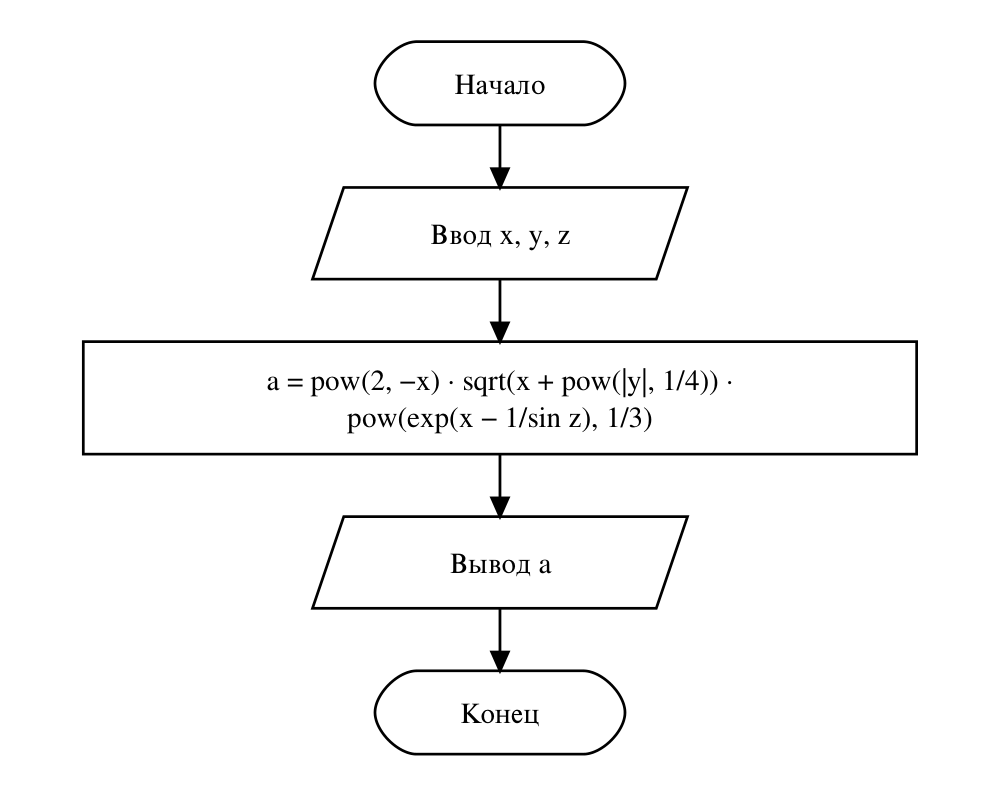
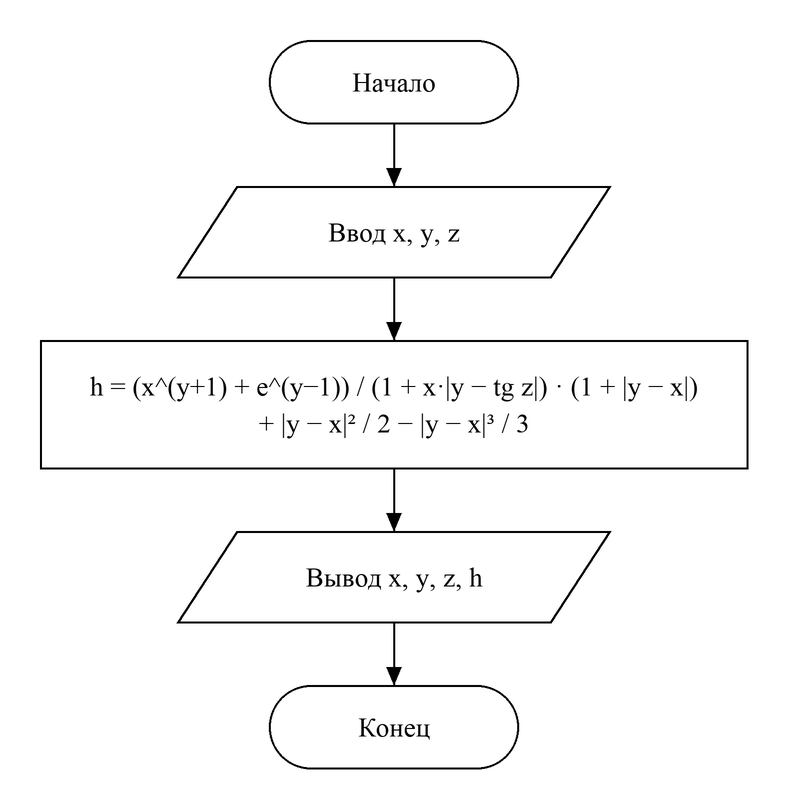
.

diff --git a/main.c b/main.c
@@ -4,16 +4,17 @@
 #include <locale.h>
 #include <math.h>
 
-// Вариант 10
-// a = 2^(-x) * sqrt(x + |y|^(1/4)) * cbrt(e^(x - 1/sin(z)))
-// Контрольный пример: x = 3.981e-2, y = -1.625e3, z = 0.512, a = 1.26185
+// Вариант 15
+// h = (x^(y+1) + e^(y-1)) / (1 + x*|y - tg z|) * (1 + |y - x|) + |y - x|^2 / 2 - |y - x|^3 / 3
+// Контрольный пример: x = 2.444, y = 0.869e-2, z = -0.13e3, h = -0.49871
 int main() {
     setlocale(LC_CTYPE, "RUS");
-    double x, y, z, a;
-    puts("a = 2^(-x) * sqrt(x + |y|^(1/4)) * cbrt(e^(x - 1/sin(z)))");
+    double x, y, z, h;
+    puts("h = (x^(y+1) + e^(y-1)) / (1 + x*|y - tg z|) * (1 + |y - x|) + |y - x|^2 / 2 - |y - x|^3 / 3");
     puts("Введите x, y, z");
     scanf("%lf %lf %lf", &x, &y, &z);
-    a = pow(2.0, -x) * sqrt(x + pow(fabs(y), 1.0 / 4)) * pow(exp(x - 1 / sin(z)), 1.0 / 3);
-    printf("При x = %g, y = %g, z = %g\na = %.5f\n", x, y, z, a);
+    h = (pow(x, y + 1) + exp(y - 1)) / (1 + x * fabs(y - tan(z))) * (1 + fabs(y - x))
+        + pow(fabs(y - x), 2) / 2 - pow(fabs(y - x), 3) / 3;
+    printf("При x = %g, y = %g, z = %g\nh = %.5f\n", x, y, z, h);
     return 0;
 }

diff --git a/README.md b/README.md
@@ -1,20 +1,20 @@
 # Домашнее задание к работе №5
-Вариант 10
+Вариант 15
 
 ## Условие задачи
 Создать программу вычисления указанной величины. Результат проверить при заданных исходных значениях.
 
-$$a = 2^{-x}\sqrt{x + \sqrt[4]{|y|}}\cdot\sqrt[3]{e^{x - 1/\sin z}}$$
+$$h = \frac{x^{y+1} + e^{y-1}}{1 + x\,|y - \mathrm{tg}\,z|}\,(1 + |y - x|) + \frac{|y - x|^2}{2} - \frac{|y - x|^3}{3}$$
 
-Контрольный пример: при x = 3.981·10⁻², y = −1.625·10³, z = 0.512 результат **1.26185**.
+Контрольный пример: при x = 2.444, y = 0.869·10⁻², z = −0.13·10³ результат **−0.49871**.
 
 ## 1. Алгоритм и блок-схема
 ### Алгоритм:
 1. Начало.
-2. Объявить вещественные переменные **x, y, z** — исходные данные и **a** — результат.
+2. Объявить вещественные переменные **x, y, z** — исходные данные и **h** — результат.
 3. Ввести x, y, z.
-4. Вычислить **a** по формуле с помощью функций из math.h: **pow, sqrt, fabs, exp, sin**. Корень 4-й степени и кубический корень записываются как возведение в степень 1/4 и 1/3.
-5. Вывести исходные данные и a с точностью 5 знаков после запятой.
+4. Вычислить **h** по формуле с помощью функций из math.h: **pow, exp, fabs, tan**.
+5. Вывести исходные данные и h с точностью 5 знаков после запятой.
 6. Конец.
 
 ### Блок-схема:
@@ -28,17 +28,18 @@ $$a = 2^{-x}\sqrt{x + \sqrt[4]{|y|}}\cdot\sqrt[3]{e^{x - 1/\sin z}}$$
 #include <locale.h>
 #include <math.h>
 
-// Вариант 10
-// a = 2^(-x) * sqrt(x + |y|^(1/4)) * cbrt(e^(x - 1/sin(z)))
-// Контрольный пример: x = 3.981e-2, y = -1.625e3, z = 0.512, a = 1.26185
+// Вариант 15
+// h = (x^(y+1) + e^(y-1)) / (1 + x*|y - tg z|) * (1 + |y - x|) + |y - x|^2 / 2 - |y - x|^3 / 3
+// Контрольный пример: x = 2.444, y = 0.869e-2, z = -0.13e3, h = -0.49871
 int main() {
     setlocale(LC_CTYPE, "RUS");
-    double x, y, z, a;
-    puts("a = 2^(-x) * sqrt(x + |y|^(1/4)) * cbrt(e^(x - 1/sin(z)))");
+    double x, y, z, h;
+    puts("h = (x^(y+1) + e^(y-1)) / (1 + x*|y - tg z|) * (1 + |y - x|) + |y - x|^2 / 2 - |y - x|^3 / 3");
     puts("Введите x, y, z");
     scanf("%lf %lf %lf", &x, &y, &z);
-    a = pow(2.0, -x) * sqrt(x + pow(fabs(y), 1.0 / 4)) * pow(exp(x - 1 / sin(z)), 1.0 / 3);
-    printf("При x = %g, y = %g, z = %g\na = %.5f\n", x, y, z, a);
+    h = (pow(x, y + 1) + exp(y - 1)) / (1 + x * fabs(y - tan(z))) * (1 + fabs(y - x))
+        + pow(fabs(y - x), 2) / 2 - pow(fabs(y - x), 3) / 3;
+    printf("При x = %g, y = %g, z = %g\nh = %.5f\n", x, y, z, h);
     return 0;
 }
 ```
@@ -46,19 +47,19 @@ int main() {
 ## 3. Результаты работы программы
 Случай 1:
 ```
-a = 2^(-x) * sqrt(x + |y|^(1/4)) * cbrt(e^(x - 1/sin(z)))
+h = (x^(y+1) + e^(y-1)) / (1 + x*|y - tg z|) * (1 + |y - x|) + |y - x|^2 / 2 - |y - x|^3 / 3
 Введите x, y, z
-3.981e-2 -1.625e3 0.512
-При x = 0.03981, y = -1625, z = 0.512
-a = 1.26185
+2.444 0.869e-2 -0.13e3
+При x = 2.444, y = 0.00869, z = -130
+h = -0.49871
 ```
 Случай 2:
 ```
-a = 2^(-x) * sqrt(x + |y|^(1/4)) * cbrt(e^(x - 1/sin(z)))
+h = (x^(y+1) + e^(y-1)) / (1 + x*|y - tg z|) * (1 + |y - x|) + |y - x|^2 / 2 - |y - x|^3 / 3
 Введите x, y, z
-1 16 1.5
-При x = 1, y = 16, z = 1.5
-a = 0.86530
+1 2 0.5
+При x = 1, y = 2, z = 0.5
+h = 3.19742
 ```
 
 ## 4. Информация о разработчике
